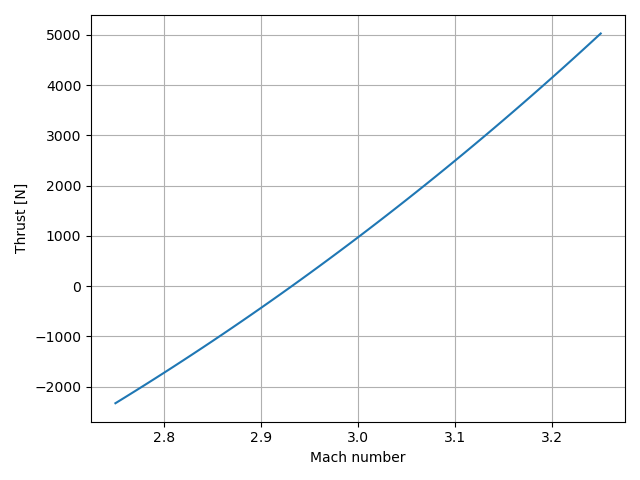
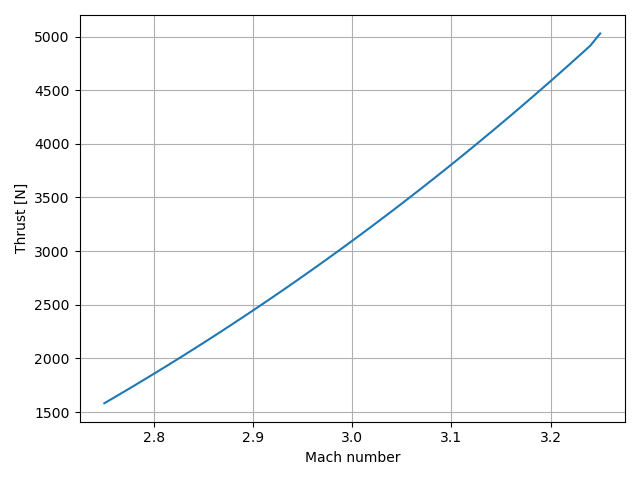
Fixed small error in evaluate.py in thrust calc. Added a new .py file that takes design params and evaluates avg thrust over mach space.

diff --git a/Final/design_to_mach.py b/Final/design_to_mach.py
@@ -1,0 +1,93 @@
+import numpy as np
+import pickle
+import pandas as pd
+from matplotlib import pyplot as plt
+
+import os, sys
+from pathlib import Path
+sys.path.insert(0,os.fspath(Path(__file__).parents[1]))
+
+from Tools.misc_functions import get_speed_of_sound
+from Tools.constants import R_air, gamma_air
+from Tools.isentropic import *
+
+from inlet import inlet as Inlet
+from diffuser import find_diffuser, evaluate_diffuser
+from flameholder import flameholder
+from combustor import solve_combustor_length, evaluate_combustor
+from converging_section import design_converging_section, analyze_converging_section
+from nozzle import design_nozzle, analyze_nozzle_moc
+from thrust_calc import calculate_thrust
+from plot_top import plot_top
+from plot_bottom import plot_bottom
+
+
+# Constants
+P_atm = 9112.32
+T_atm = 216.65
+M_max = 3.25
+gamma = gamma_air
+Resolution = 100
+
+# Design Parameters
+m_dot = 10
+width = 1
+turn_angles = [10, 10, 10]
+M_exit_diffuser = 0.1
+diffuser_length = 0.1
+m_dot_fuel = 0.1
+converging_length = 0.1
+
+# Design
+inlet = Inlet(P_atm, T_atm, M_max, m_dot, turn_angles, width=width)
+M1, P1, T1, _, _, _ = inlet.output_properties(P_atm, T_atm, M_max)
+diffuser_df = find_diffuser(M1, P1, T1, m_dot, width, M_exit_diffuser, diffuser_length, Resolution)
+M2 = diffuser_df['Mach'].iloc[-1]
+P2 = diffuser_df['Pressure'].iloc[-1]
+T2 = diffuser_df['Temperature'].iloc[-1]
+P3, M3 = flameholder(P2, M2)
+T3 = T2
+combustor_dict = solve_combustor_length(M3, P3, T3, m_dot, width, m_dot_fuel)
+P4 = combustor_dict["P_out"]
+T4 = combustor_dict["T_out"]
+M4 = combustor_dict["M_out"]
+P5s, T5s, M5s, _, A5s, h5s, x5s = design_converging_section(P4, T4, M4, m_dot, converging_length, width)
+P5 = P5s[-1]
+T5 = T5s[-1]
+M5 = M5s[-1]
+converge_df = pd.DataFrame({"height": h5s, "x_vals": x5s})
+P6s, T6s, M6s, _, A6s, h6s, x6s, _, _ = design_nozzle(P5, T5, M5, m_dot, P_atm, width)
+nozzle_df = pd.DataFrame({"height": h6s, "x_vals": x6s})
+
+# Evaluate across Mach range
+M_atms = np.linspace(2.75, 3.25, 51)
+thrusts = []
+
+_, _, top_profile_back_thickness = plot_top(inlet, 0, 0, inlet.xs[-1] + diffuser_length + combustor_dict["length_m"] + converging_length + x6s[-1])
+_, _, length_of_front, angle_of_front = plot_bottom(inlet, diffuser_df, combustor_dict, x5s, h5s, x6s, h6s)
+
+results = []
+
+for M_in in M_atms:
+    P_inlet, T_inlet, _, M_inlet = inlet.get_1d_profiles(inlet.xs, P_atm, T_atm, M_in)
+    M_normal, P_normal, T_normal, _, _, _ = inlet.output_properties(P_atm, T_atm, M_in)
+    diffuser_results = evaluate_diffuser(diffuser_df['x'], diffuser_df['y'], M_normal, P_normal, T_normal, width)
+    P_out, _ = flameholder(diffuser_results['Pressure'].iloc[-1], diffuser_results['Mach'].iloc[-1], gamma)
+    u_in = diffuser_results['Mach'].iloc[-1] * get_speed_of_sound(diffuser_results['Temperature'].iloc[-1])
+    rho_in = P_out / (R_air * diffuser_results['Temperature'].iloc[-1])
+    area_in = diffuser_df['y'].iloc[-1] * width
+    m_dot_air = area_in * rho_in * u_in
+    combustor_results = evaluate_combustor(combustor_dict["length_m"], diffuser_results['Mach'].iloc[-1], P_out, diffuser_results['Temperature'].iloc[-1], m_dot_air, width, combustor_dict["M_out"])
+    con_Ps, con_Ts, con_Ms = analyze_converging_section(converge_df["height"], combustor_results["P_out"], combustor_results["T_out"], combustor_results["M_out"], width)
+    noz_Ps, noz_Ts, noz_Ms, _, _ = analyze_nozzle_moc(nozzle_df["x_vals"], nozzle_df["height"], con_Ps[-1], con_Ts[-1], con_Ms[-1], width, n_characteristics=50)
+    
+    thrust = calculate_thrust(inlet, P_atm, M_in, T_atm, noz_Ps[-1], noz_Ms[-1], noz_Ts[-1], nozzle_df["height"].iloc[-1] * width, length_of_front, angle_of_front, top_profile_back_thickness, width)
+    thrusts.append(thrust)
+
+    results.append({
+        "M_in": M_in,
+        "Thrust": thrust
+    })
+
+avg_thrust = sum(thrusts) / len(thrusts)
+print(f"Average Thrust: {avg_thrust} N")

diff --git a/Final/evaluate.py b/Final/evaluate.py
@@ -141,8 +141,12 @@ _, _, top_profile_back_thickness = plot_top (inlet, 0, 0, results[0]["xs"][-1]- 
 _, _, length_of_front, angle_of_front = plot_bottom(inlet, diffuser_df, combustor_dict, converge_df["x_vals"], converge_df["height"], nozzle_df["x_vals"], nozzle_df["height"])
 
 for r in results:
-    thrust = calculate_thrust(inlet, P_atm, M_in, T_atm, r["Ps"][-1], r["Ms"][-1], r["Ts"][-1], nozzle_df["height"].iloc[-1]* width, length_of_front, angle_of_front, top_profile_back_thickness, width)
+    thrust = calculate_thrust(inlet, P_atm, r["M_in"], T_atm, r["Ps"][-1], r["Ms"][-1], r["Ts"][-1], nozzle_df["height"].iloc[-1]* width, length_of_front, angle_of_front, top_profile_back_thickness, width)
     r["Thrust"] = thrust
+
+# Average thrust
+avg_thrust = sum(r["Thrust"] for r in results) / len(results)
+print(f"Average Thrust: {avg_thrust} N")
 
 # -------------------------------------------------------------
 # PLOT ALL OUR RESULTS
